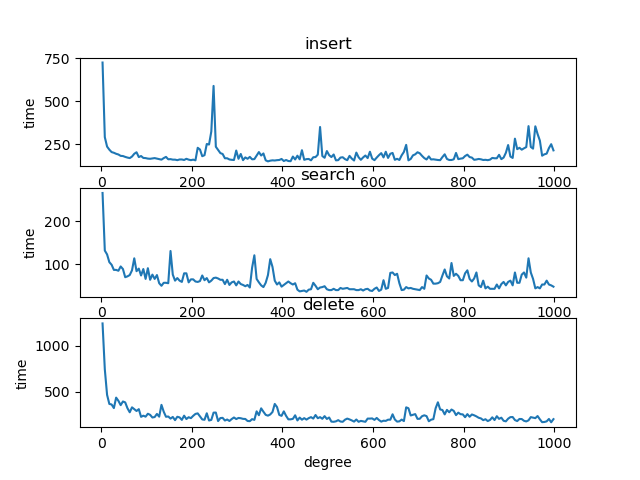
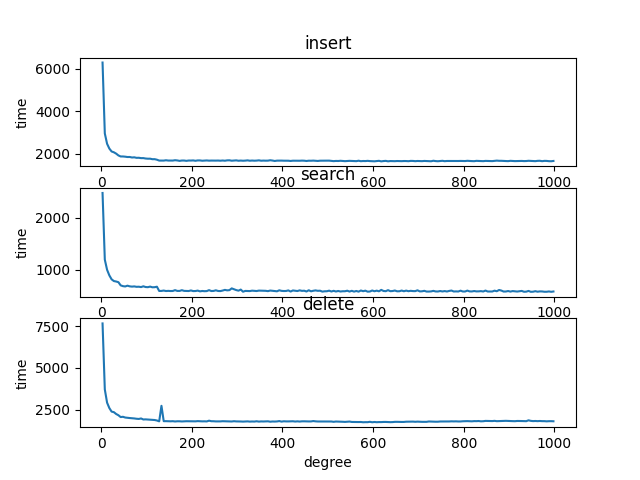
用实验室服务器跑的图

diff --git a/test/performanceTest.cpp b/test/performanceTest.cpp
@@ -3,9 +3,9 @@
 #include <utility>
 
 #include "B_Plus_Tree.h"
-#define MAX_DEGREE 1000        //最大度数
-#define MIN_DEGREE 3           //最小度数
-#define NUMBER_SAMPLES 100000  //样本数量
+#define MAX_DEGREE 1000         //最大度数
+#define MIN_DEGREE 3            //最小度数
+#define NUMBER_SAMPLES 1000000  //样本数量
 vector<int> srcData;
 void initVector() {
   for (int i = 0; i < NUMBER_SAMPLES; ++i) {
@@ -95,7 +95,7 @@ void performanceTest() {
   fw.open("./performance_insert_concurrent", ios::out);
   vector<thread> threads;
   for (int i = 1; i < 100; ++i) {
-    BPlusTree<int> testTree(50, "testTree");
+    BPlusTree<int> testTree(100, "testTree");
     threads.clear();
     int perCount = NUMBER_SAMPLES / i;  //每个线程要插的数量
     auto start = std::chrono::high_resolution_clock::now();
@@ -132,7 +132,7 @@ void performanceTest() {
   }
   fw.close();
 
-  BPlusTree<int> *testTree = TestInsert(50);
+  BPlusTree<int> *testTree = TestInsert(100);
   //---------------------------并发查询--------------------------
   system("rm -rf ./performance_search_concurrent");
   fw.open("./performance_search_concurrent", ios::out);
@@ -171,7 +171,7 @@ void performanceTest() {
   system("rm -rf ./performance_delete_concurrent");
   fw.open("./performance_delete_concurrent", ios::out);
   for (int i = 1; i < 100; ++i) {
-    testTree = TestInsert(50);
+    testTree = TestInsert(100);
     threads.clear();
     int perCount = NUMBER_SAMPLES / i;  //每个线程要删的数量
     auto start = std::chrono::high_resolution_clock::now();
